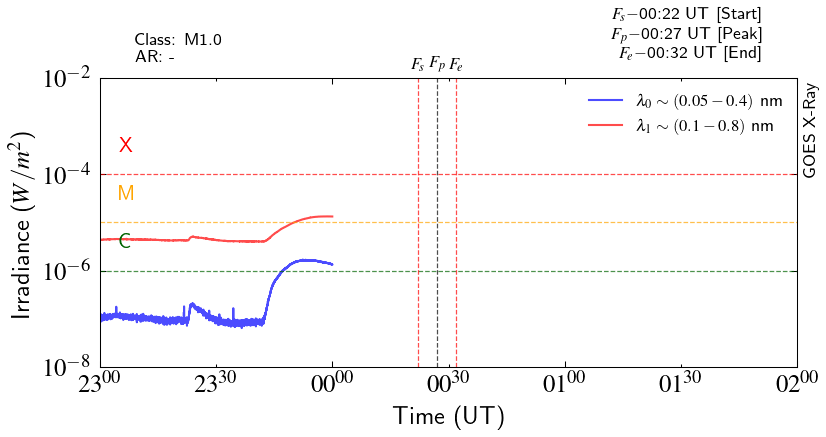
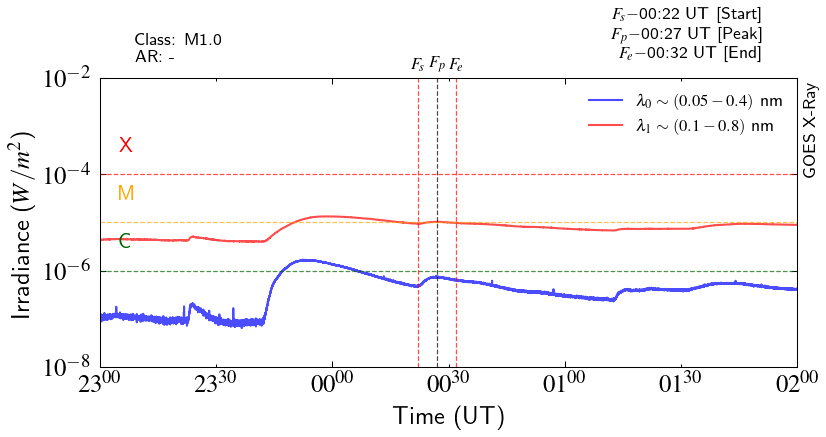
Updated code for Aug 3rd event

diff --git a/py/goes.py b/py/goes.py
@@ -106,26 +106,30 @@ class FlareTS(object):
         """
         self.flare = {}
         self.dfs["goes"], self.goes, self.flareHEK = pd.DataFrame(), [], None
-        file_str = f"/home/shibaji/sunpy/data/sci_xrsf-*_d{self.dates[0].strftime('%Y%m%d')}_*.nc"
+        days = int((self.dates[1]-self.dates[0]).days)
+        ddates = [
+            self.dates[0] + dt.timedelta(int(x))
+            for x in np.arange(days-1, days+2, 1)
+        ]
+        files = []
         import glob
-        files = glob.glob(file_str)
+        for ddate in ddates:
+            file_str = f"/home/shibaji/sunpy/data/sci_xrsf-*_d{ddate.strftime('%Y%m%d')}_*.nc"
+            files.extend(glob.glob(file_str))
         if len(files)>0:
-            logger.info(f"File exists: {files[0]}")
-            self.goes.append(ts.TimeSeries(files[0]))
-            self.dfs["goes"] = pd.concat(
-                [self.dfs["goes"], self.goes[-1].to_dataframe()]
-            )
+            for f in files:
+                logger.info(f"File exists: {f}")
+                self.goes.append(ts.TimeSeries(f))
+                self.dfs["goes"] = pd.concat(
+                    [self.dfs["goes"], self.goes[-1].to_dataframe()]
+                )
             self.dfs["goes"].index.name = "time"
             self.dfs["goes"] = self.dfs["goes"].reset_index()
-            self.dfs["goes"] = self.dfs["goes"][
-                (self.dfs["goes"].time >= self.dates[0])
-                & (self.dfs["goes"].time <= self.dates[1])
-            ]
         else:
             result = Fido.search(
                 a.Time(
-                    self.dates[0].strftime("%Y-%m-%d %H:%M"),
-                    self.dates[1].strftime("%Y-%m-%d %H:%M"),
+                    (self.dates[0]-dt.timedelta(1)).strftime("%Y-%m-%d %H:%M"),
+                    (self.dates[1]+dt.timedelta(1)).strftime("%Y-%m-%d %H:%M"),
                 ),
                 a.Instrument("XRS") | a.hek.FL & (a.hek.FRM.Name == "SWPC"),
             )
@@ -141,10 +145,6 @@ class FlareTS(object):
                         )
                     self.dfs["goes"].index.name = "time"
                     self.dfs["goes"] = self.dfs["goes"].reset_index()
-                    self.dfs["goes"] = self.dfs["goes"][
-                        (self.dfs["goes"].time >= self.dates[0])
-                        & (self.dfs["goes"].time <= self.dates[1])
-                    ]
                 else:
                     logger.info("No files downloaded from remote system")
                     self.__load_NOAA__()
@@ -242,8 +242,8 @@ class FlareTS(object):
         )
         N = int((self.dates[1] - self.dates[0]).total_seconds() / del_t)
         ax.semilogy(
-            self.dfs["goes"].time.tolist()[:N],
-            self.dfs["goes"].xrsa.tolist()[:N],
+            self.dfs["goes"].time.tolist(),
+            self.dfs["goes"].xrsa.tolist(),
             "b",
             ls="-",
             lw=1.0,
@@ -251,8 +251,8 @@ class FlareTS(object):
             label=r"$\lambda_0\sim (0.05-0.4)$ nm",
         )
         ax.semilogy(
-            self.dfs["goes"].time.tolist()[:N],
-            self.dfs["goes"].xrsb.tolist()[:N],
+            self.dfs["goes"].time.tolist(),
+            self.dfs["goes"].xrsb.tolist(),
             "r",
             ls="-",
             lw=1.0,

diff --git a/py/summary.py b/py/summary.py
@@ -65,7 +65,6 @@ class Summary(object):
             self.flareTS.close()
             # SD plot
             self.sd = SDAnalysis(dates=[self.start_time, self.end_time], rads=self.rads)
-            print(self.sd.plot_summary_TS())
             setattr(self.sd, "sd_timings", self.sd.plot_summary_TS())
             self.sd.save(self.file_names["sd_file"])
             self.sd.close()
